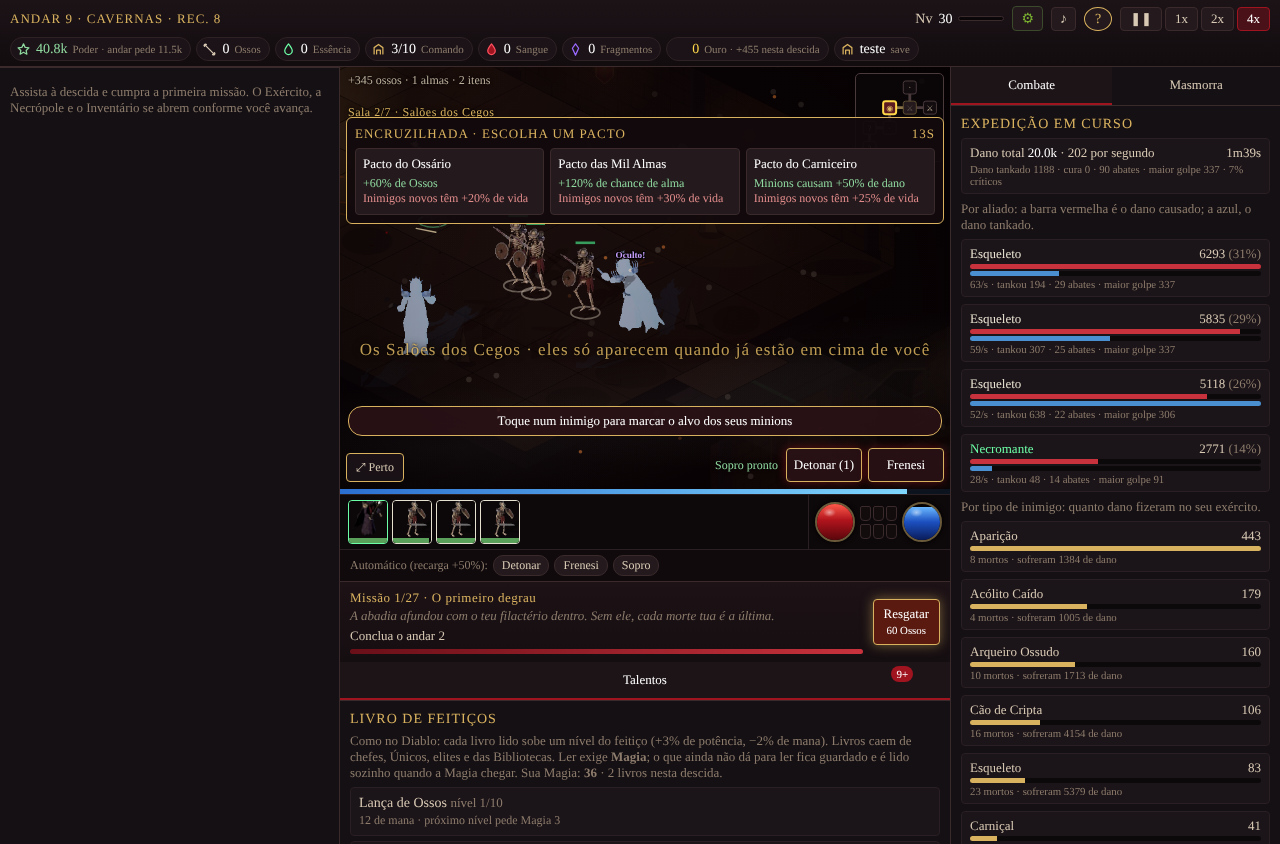
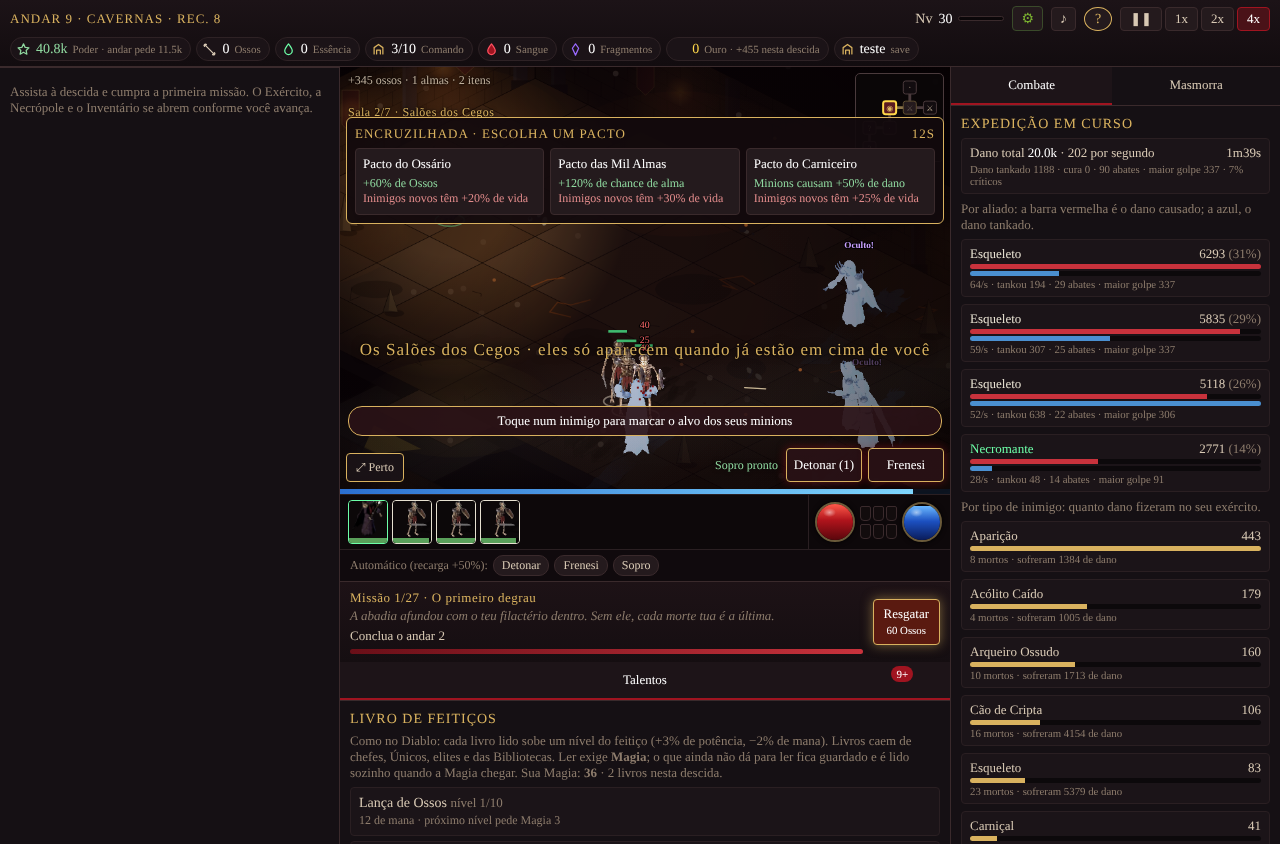
Referência do Diablo 1 (tabelas públicas): escala dos monstros e curva de vida; Pesadelo remedido (25 h); Oculto com anel roxo
Claude-Session: https://claude.ai/code/session_01Bt9MtRAEw1Tz8zrHpBCPCF

diff --git a/docs/jogo.js b/docs/jogo.js
@@ -1384,7 +1384,7 @@ function desenhar(dt) {
     const [img, sx, sy] = quadro(m, cen && !cen[5] ? 'andar' : acao, cen && !cen[5] ? direcao(cen[3], cen[4]) : dvE ? direcao(dvE[2], dvE[3]) : s.dir, cen && !cen[5] ? tempoSim * 1.4 : tempo);
     const prov = s.necro ? null : (masm.qualSecreto === 3 && s.inimigo ? [null, 1, '60,80,210', 0.5] : nomesUnicos.get(s.id) === 'O Açougueiro' ? [null, 1.6, '170,20,24', 0.36] : nomesUnicos.get(s.id) === 'Rei Esqueleto' ? [null, 1.55, '230,200,90', 0.22] : nomesUnicos.get(s.id) === 'Golem de Ossos' ? [null, 1.25, '120,230,170', 0.3] : s.campeao ? [null, 1.12, '70,130,255', 0.34] : visual(s.especie)), e = prov ? prov[1] : 1;   // Cripta dos Espelhos: os reflexos são sombras azuladas
     const dx0 = Math.round(px - m.pivo[0] * e), dy0 = Math.round(py - (m.H - m.pivo[1]) * e);
-    const ocultoA = !morto && ocultos.has(s.id); if (ocultoA) { ctx.save(); ctx.globalAlpha = 0.13 + 0.05 * Math.sin(performance.now() / 300 + s.id); }
+    const ocultoA = !morto && ocultos.has(s.id); if (ocultoA) { const tO = performance.now() / 1000 + s.id; ctx.save(); ctx.globalCompositeOperation = 'lighter'; ctx.strokeStyle = `rgba(190,120,255,${0.55 + 0.3 * Math.sin(tO * 5)})`; ctx.lineWidth = 2; ctx.setLineDash([5, 4]); ctx.lineDashOffset = -tO * 20; ctx.beginPath(); ctx.ellipse(px, py, 26 * reforco, 11 * reforco, 0, 0, 7); ctx.stroke(); ctx.setLineDash([]); ctx.restore(); ctx.save(); ctx.globalAlpha = 0.3 + 0.08 * Math.sin(tO * 3); }
     if (!morto && ADORNOS[s.especie]) adorno(s.especie, 0, px, py, e, s.id);
     if (s.especie === 'Diablo' && !morto) desenharDiablo(px, py, reforco, s, 1);
     else if (s.especie === 'Lazarus' && !morto) desenharLazarus(px, py, reforco, s, 1);

diff --git a/jogo/Web/wwwroot/jogo.js b/jogo/Web/wwwroot/jogo.js
@@ -1384,7 +1384,7 @@ function desenhar(dt) {
     const [img, sx, sy] = quadro(m, cen && !cen[5] ? 'andar' : acao, cen && !cen[5] ? direcao(cen[3], cen[4]) : dvE ? direcao(dvE[2], dvE[3]) : s.dir, cen && !cen[5] ? tempoSim * 1.4 : tempo);
     const prov = s.necro ? null : (masm.qualSecreto === 3 && s.inimigo ? [null, 1, '60,80,210', 0.5] : nomesUnicos.get(s.id) === 'O Açougueiro' ? [null, 1.6, '170,20,24', 0.36] : nomesUnicos.get(s.id) === 'Rei Esqueleto' ? [null, 1.55, '230,200,90', 0.22] : nomesUnicos.get(s.id) === 'Golem de Ossos' ? [null, 1.25, '120,230,170', 0.3] : s.campeao ? [null, 1.12, '70,130,255', 0.34] : visual(s.especie)), e = prov ? prov[1] : 1;   // Cripta dos Espelhos: os reflexos são sombras azuladas
     const dx0 = Math.round(px - m.pivo[0] * e), dy0 = Math.round(py - (m.H - m.pivo[1]) * e);
-    const ocultoA = !morto && ocultos.has(s.id); if (ocultoA) { ctx.save(); ctx.globalAlpha = 0.13 + 0.05 * Math.sin(performance.now() / 300 + s.id); }
+    const ocultoA = !morto && ocultos.has(s.id); if (ocultoA) { const tO = performance.now() / 1000 + s.id; ctx.save(); ctx.globalCompositeOperation = 'lighter'; ctx.strokeStyle = `rgba(190,120,255,${0.55 + 0.3 * Math.sin(tO * 5)})`; ctx.lineWidth = 2; ctx.setLineDash([5, 4]); ctx.lineDashOffset = -tO * 20; ctx.beginPath(); ctx.ellipse(px, py, 26 * reforco, 11 * reforco, 0, 0, 7); ctx.stroke(); ctx.setLineDash([]); ctx.restore(); ctx.save(); ctx.globalAlpha = 0.3 + 0.08 * Math.sin(tO * 3); }
     if (!morto && ADORNOS[s.especie]) adorno(s.especie, 0, px, py, e, s.id);
     if (s.especie === 'Diablo' && !morto) desenharDiablo(px, py, reforco, s, 1);
     else if (s.especie === 'Lazarus' && !morto) desenharLazarus(px, py, reforco, s, 1);

diff --git a/jogo/PLANO_CICLOS.md b/jogo/PLANO_CICLOS.md
@@ -354,3 +354,4 @@ Dono pediu ciclos a cada 5 minutos.
 186. (decisão) O dono perguntou se comprar o Diablo daria para usar os arquivos como referência. Resposta: só como consulta de regras; arte, som e texto extraídos não entram no jogo (ele é publicado). As regras já estão públicas (Jarulf's Guide, DevilutionX). Reconheci que os desenhos de Diablo e Lázarus (itens 181 e 184) ficaram próximos demais dos personagens da Blizzard: serão trocados por designs originais no próximo ciclo. Perguntado se renomeia Diablo/Lázarus/Açougueiro/Rei Esqueleto.
 187. (decisão do 186 cumprida) Os dois chefes finais trocaram de DESENHO por designs originais, sem lembrar os personagens da Blizzard; mecânica, eventos e nomes iguais (os nomes esperam resposta do dono). Ato 3 — desenharLazarus agora é o "Profeta Velado": flutua em vestes cinza-azuladas em faixas rasgadas, capuz fundo, máscara de bronze lisa sem rosto, corrente de contas de ferro, braços magros, e um livro aberto que flutua diante dele, com letras verdes em órbita que acendem ao conjurar. Ato 4 — desenharDiablo agora é o "Colosso de Cinzas": esqueleto gigante de ossos negros, sem pele e sem chifres, crânio alongado com órbitas em brasa, fogo vivo dentro das costelas, juntas acesas, braços longos demais, coroa de chamas e um anel de seis crânios em órbita (gira mais rápido ao conjurar o Apocalipse). Capturas conferidas: o Colosso no computador (imagens/diablo.png), o Profeta a 390 px (imagens/lazarus.png). (2) Folga no chefe do Ato 1 (estava em 8 de 8): InclinacaoFimDeAto 0,20 → 0,19. Portão ausente 9/9 (variante medida antes de aplicar): 48 s por andar, chefe Ato 1 1,30 h (6 tentativas), maior espera 0,26, andar 15 3,06 h, chefe Ato 2 7,45 h; ativo 0,73/2,23/5,57 h. Visto e não tratado: no andar 40 o aviso de tema diz "Catedral" (o tema de cada andar é Inferno de 37 a 40, mas o aviso de entrada parece usar outra conta). Publicado 1795793950-3273.
 188. Acabamento de tela + remedição (núcleo intocado; portão do 187 vale). (1) O "Catedral" no andar 40 NÃO era defeito: o cheat "andar 41" faz o painel mostrar o andar 41 por um instante (início do Ato 5, Catedral) antes de a descida começar no 40. (2) Avisos não colidem mais: enquanto o título grande do andar está na tela, o aviso sobe para o alto (#aviso.alto); com o cartão de fim de expedição aberto, o aviso desce (conferido a 390 px, imagens/titulo_e_aviso.png). (3) Ocultos conferidos em jogo real: "Oculto!" aparece quando ele se revela (imagens/oculto.png, computador). Descoberto: as capturas que avançam o jogo por NecroJogo.Avancar descartam os eventos desses ticks (a página só lê os eventos dos próprios quadros) — por isso efeitos de evento não apareciam; para capturar efeito de evento, deixar o jogo rodar sozinho a 4x (ticks 0 no conf.py e clicar no 4x no setup). Gancho novo window.__ocultos(). O vulto translúcido ainda não ficou nítido na captura. (4) REMEDIDO com tudo (3 campanhas): primeira vida até o chefe do Ato 4 34,62 h (era 38,73); vidas 2 e 3 sem gastar Cinzas 25,81 h e 18,06 h. Normal até o chefe do Ato 2 7,80 h. Pesadelo desde a troca: chefe do Ato 1 11,89 h (era 8,61) e chefe do Ato 2 não alcançado em 30 h de orçamento (antes 24,44 h com 34 h) — o Pesadelo ficou MAIS LONGO; com 3 campanhas a medida é ruidosa, mas a direção merece atenção. (5) O dono perguntou se deixar o repositório privado permitiria mais referência: respondido que muda quem vê o código, não o que entra no jogo; ofereci conferir monstros, drops e fórmulas contra as tabelas públicas do DevilutionX. Publicado 1795795076-c222.
+189. (1) O dono confirmou que a cópia do Diablo nos Downloads é da GOG (arquivos goggame-1412601690 conferidos). Regra mantida: arte, som, música e texto do jogo não entram no nosso; regras e números sim. Tabelas de referência tiradas do DevilutionX (público) e resumidas em REFERENCIA_D1.md. ACHADO PRINCIPAL para o "desproporcionais" do dono: no original o maior monstro tem só 1,25× a largura de um comum (quadros de 128 e 160 px), e o Rei Esqueleto e o próprio Diablo são do tamanho de um Balrog (160); o Açougueiro é do tamanho de um zumbi (128). Os nossos chefes e colossos chegam a 2-3× um comum. Curva de vida do original: 4, 9, 15, 24, 33, 42, 56, 66, 78, 95, 107, 129, 144, 148, 159, 164 nos 16 andares (rápida no começo, quase plana no fim). (2) PESADELO REMEDIDO com 5 campanhas e 40 h: chefe do Ato 1 7,94 h e do Ato 2 25,00 h desde a troca — o 11,89 h do item 188 era ruído; sem imunidades (ImunidadeAPartirDe 9) 8,51 / 26,06 h, ou seja, as imunidades quase não pesam no tempo. Nada mudado. (3) Oculto ainda oculto: vulto a 30% de opacidade com anel roxo tracejado girando no chão (conferido no computador, imagens/oculto.png). Publicado 1795795788-f764.

diff --git a/jogo/REFERENCIA_D1.md b/jogo/REFERENCIA_D1.md
@@ -1,0 +1,22 @@
+# Referência do Diablo 1 (regras e números)
+
+Fonte: tabelas públicas do DevilutionX (`assets/txtdata`, reimplementação aberta do jogo). O dono tem o Diablo da GOG (pasta conferida em 27/11); o jogo original serve para ele jogar e comparar. Nada de arte, som, música ou texto do jogo entra no Necromante Idle: daqui só saem regras e números.
+
+## Escala dos monstros (largura do quadro do sprite, em pixels)
+- 96: morcegos e Hollow/Pain Master (pequenos).
+- 128: quase todos — zumbis, esqueletos, Fallen, Hidden, cabras, Súcubos, Conselheiros/Magistrados, e também **o Açougueiro**.
+- 160: os grandes — Rhinos, Gárgulas, Balrogs, Cavaleiros Negros, Serpentes, **o Rei Esqueleto e o próprio Diablo**.
+- Conclusão: no original, o maior monstro tem só **1,25×** a largura de um comum, e os chefes não são desenhados maiores que um Balrog. Nossos chefes colossais (até 2-3× um comum) estão fora dessa proporção.
+
+## Vida média dos monstros comuns por andar (Normal)
+| andar | 1 | 2 | 3 | 4 | 5 | 6 | 7 | 8 | 9 | 10 | 11 | 12 | 13 | 14 | 15 | 16 |
+|---|---|---|---|---|---|---|---|---|---|---|---|---|---|---|---|---|
+| vida | 4 | 9 | 15 | 24 | 33 | 42 | 56 | 66 | 78 | 95 | 107 | 129 | 144 | 148 | 159 | 164 |
+- Cresce rápido no começo (~60%/andar nos 3 primeiros), ~20%/andar no meio e quase para no fim (~4%/andar nos 4 últimos). O nosso jogo usa ~30%/andar o tempo todo, em 40 andares.
+
+## Chefes e Únicos de missão (vida no Normal)
+- Açougueiro 220 (andar 2) · Rei Esqueleto 240 (3) · Zhar 360 · Senhor da Guerra de Sangue 850 (13) · Lázarus 600 (15) · Diablo 1666 (16).
+- Relação com os comuns do andar: Açougueiro ~25×, Rei ~16×, Lázarus ~4×, Diablo ~10×.
+
+## Resistências e imunidades
+- No original, a imunidade já existe no Normal (esqueletos e zumbis imunes a magia; demônios de lava imunes a fogo; Storm/Death Wing imunes a raio) e o Inferno usa uma tabela própria, mais dura. Nosso jogo só cria imunidade no Pesadelo/Inferno.
